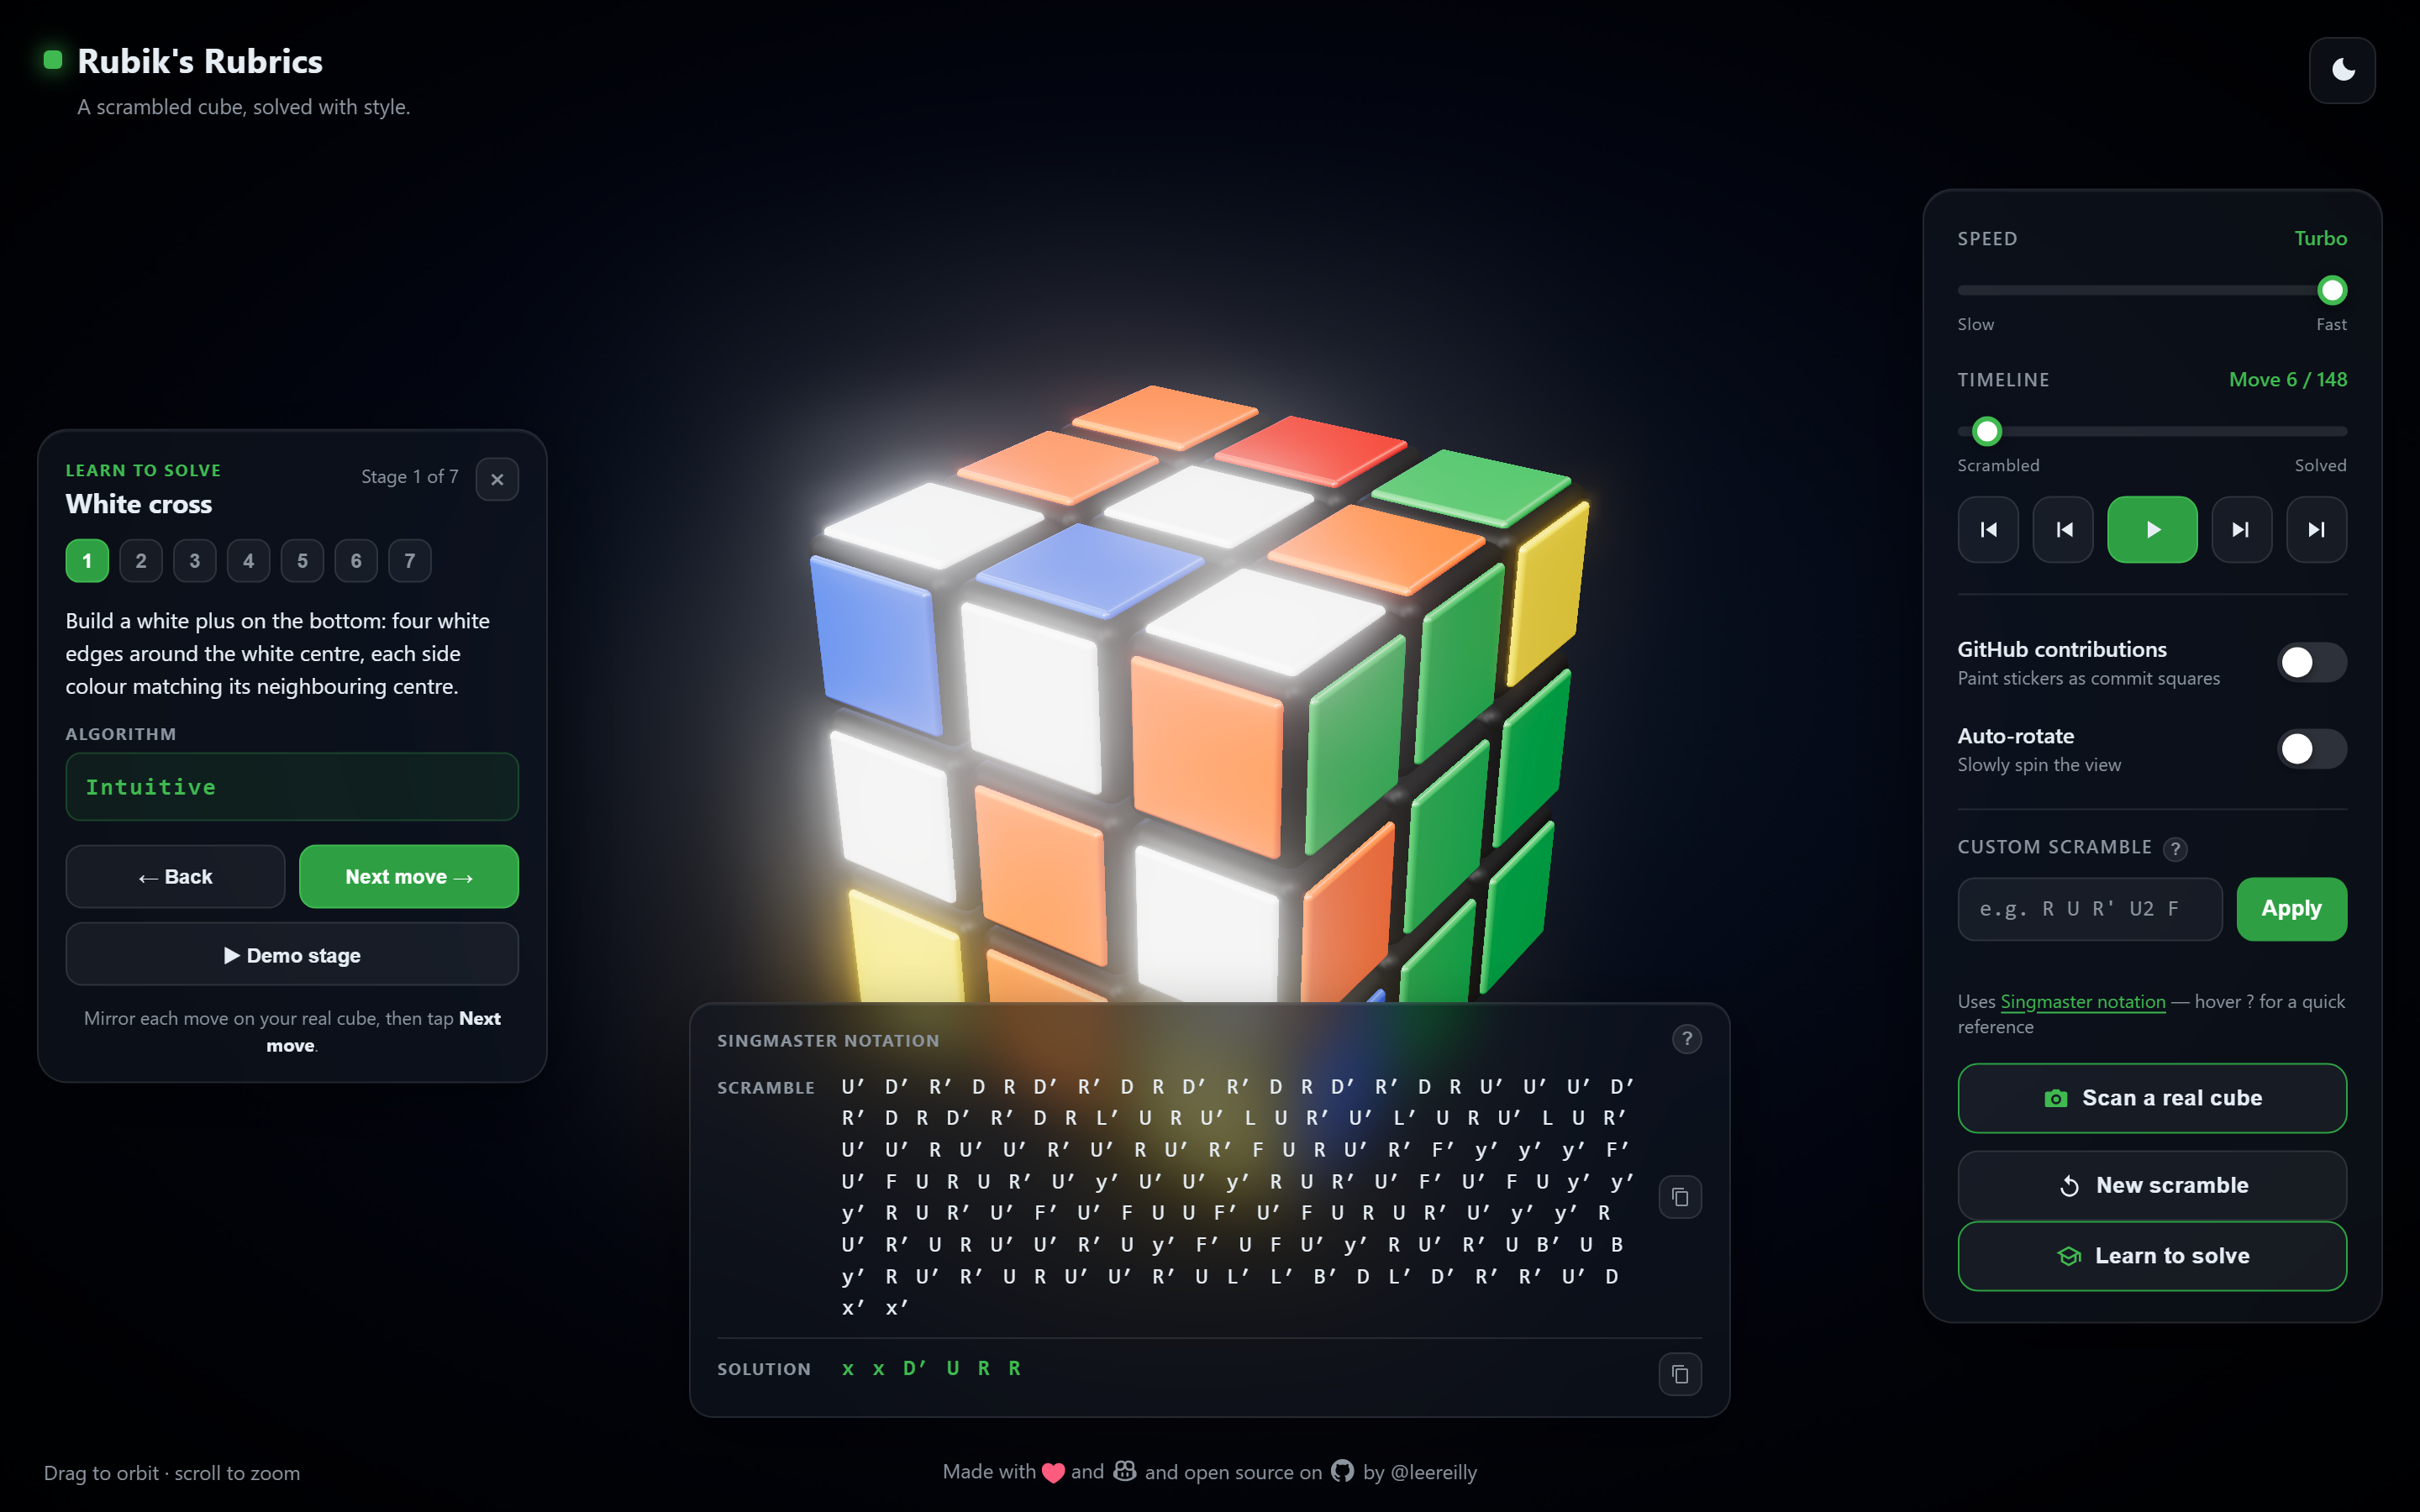
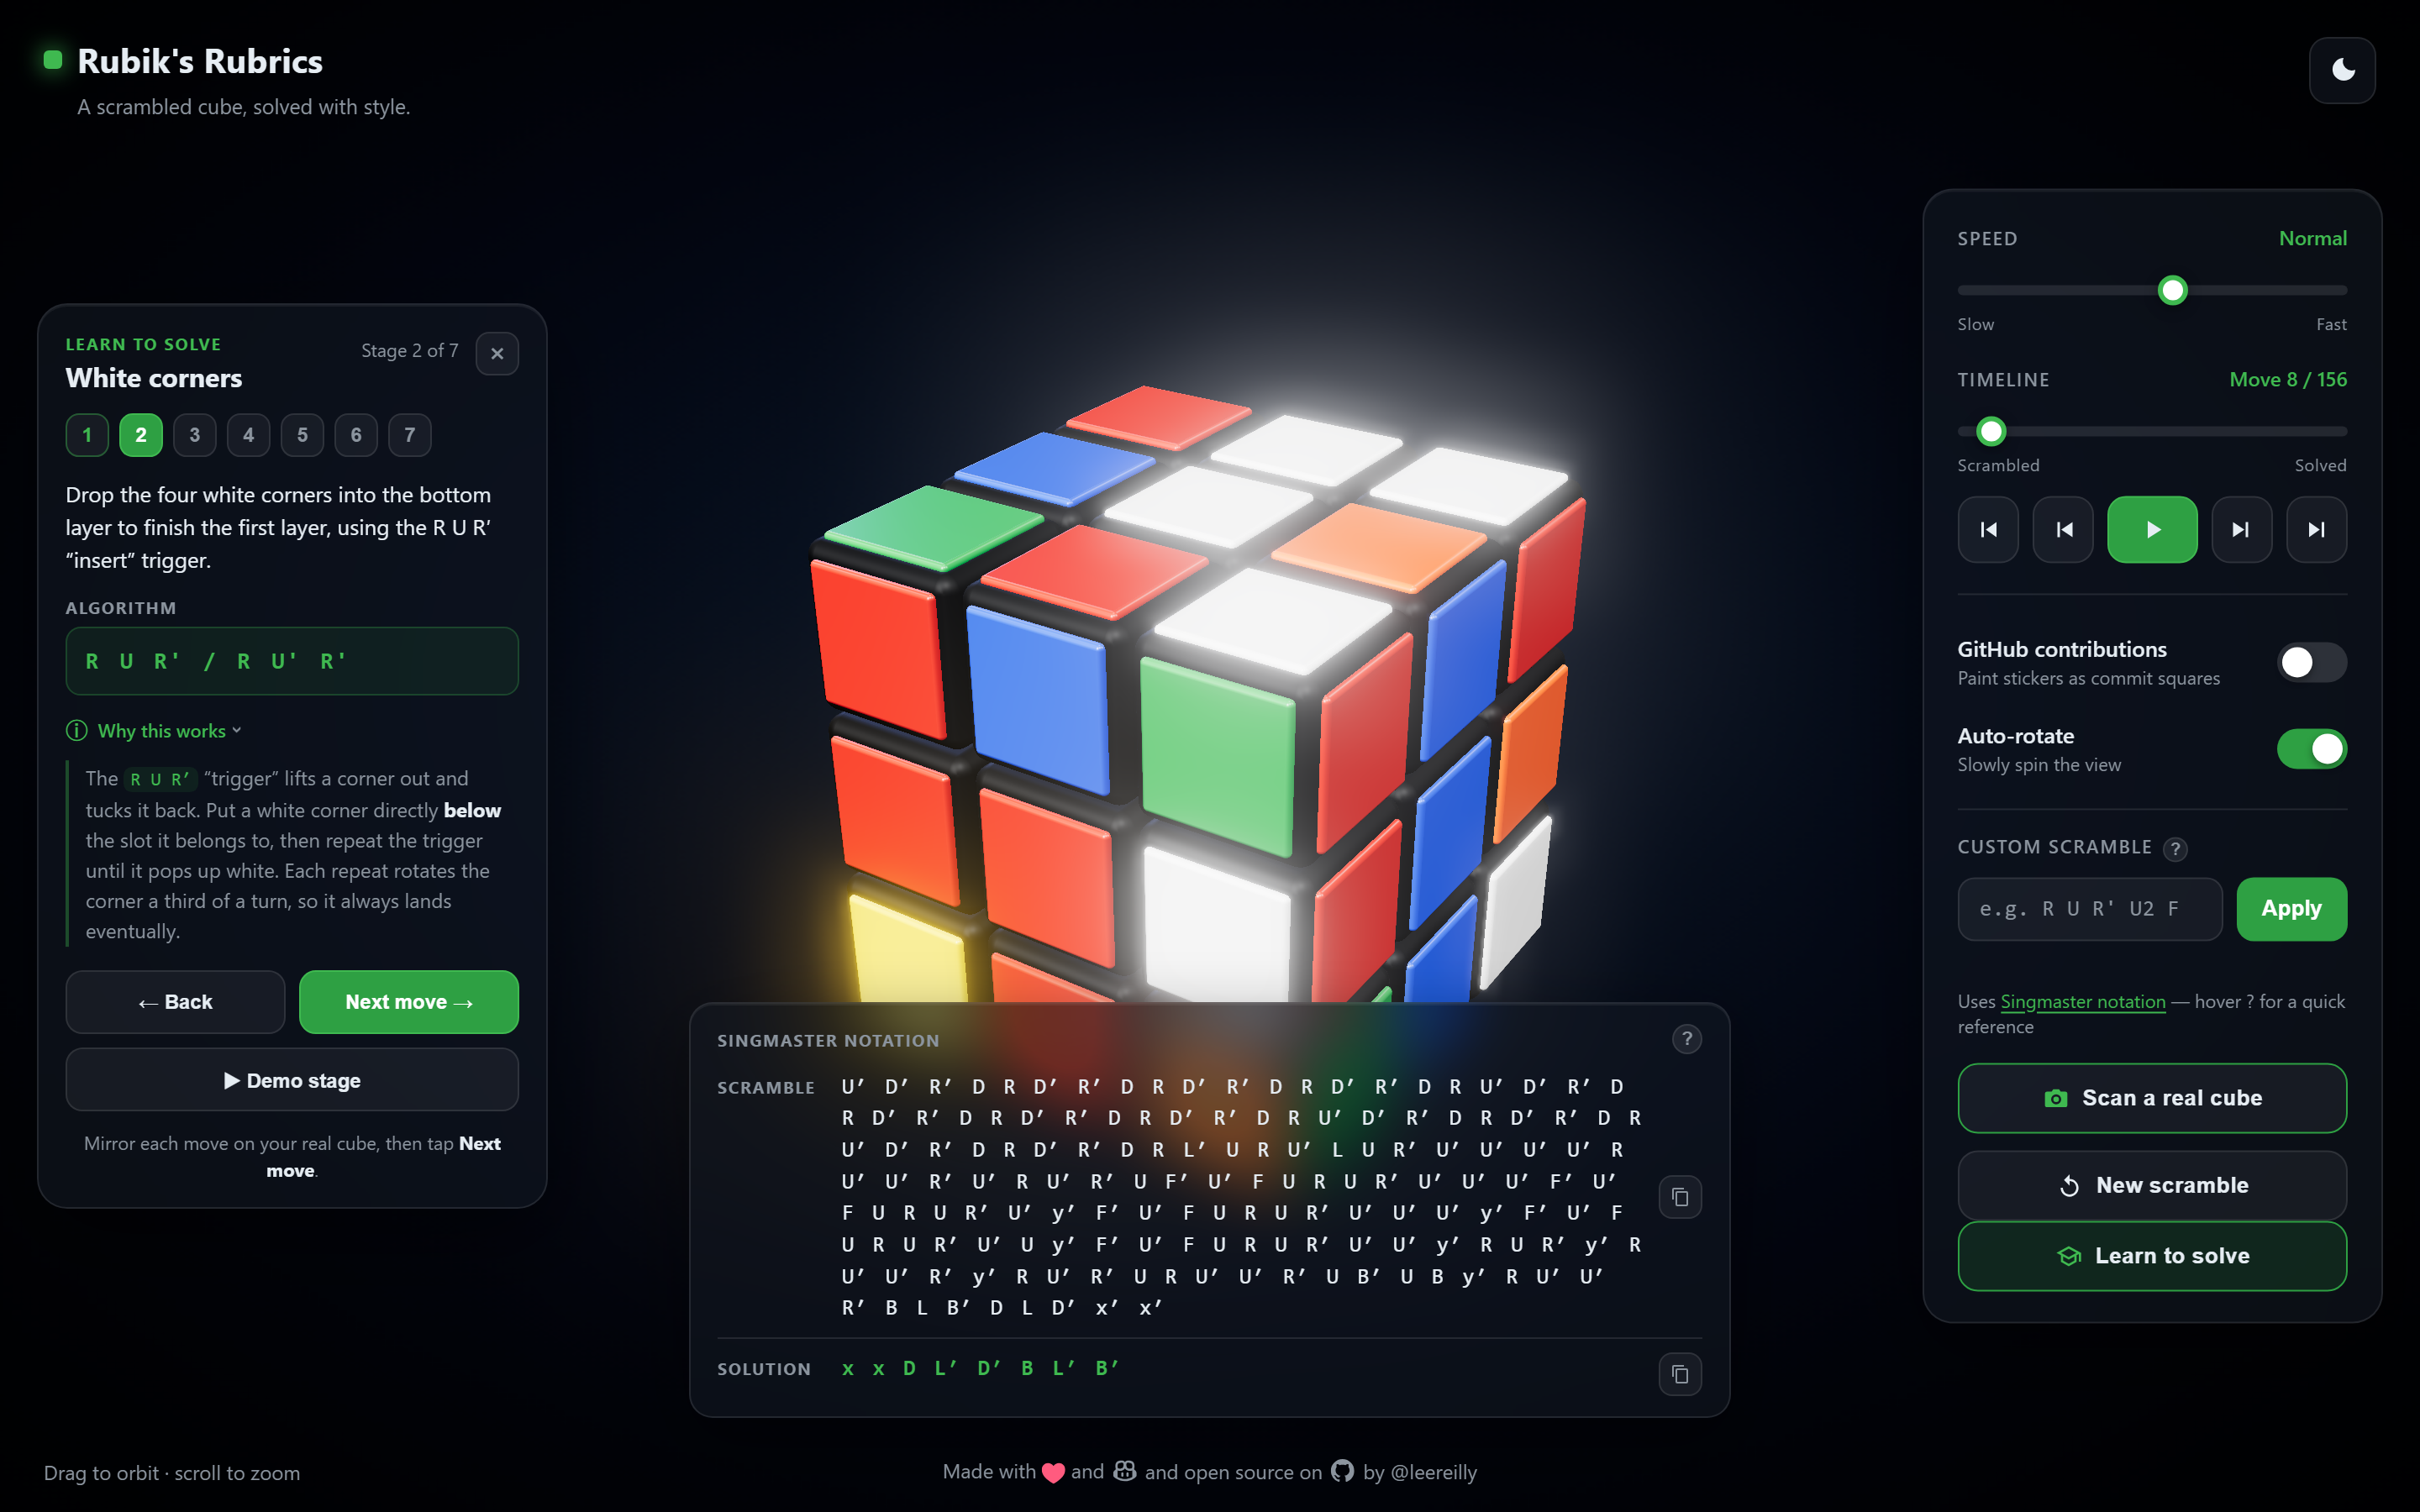
Add expandable 'Why this works' algorithm guide to the coach (#2)
Each Learn to Solve stage now offers a collapsible beginner explanation of
its algorithm (what it does and why), including the 'magic move' commutator
R' D' R D. The tip preserves its open/closed state while stepping within a
stage. Refreshes the README coach screenshot to showcase it.

diff --git a/index.html b/index.html
@@ -549,6 +549,30 @@
     background: rgba(46,160,67,.1); border: 1px solid rgba(63,185,80,.25);
     border-radius: 9px; padding: 9px 11px; word-spacing: 3px; line-height: 1.5;
   }
+  /* Expandable beginner guide for the named algorithm (collapsed by default). */
+  .coach-why { margin-top: 8px; }
+  .coach-why > summary {
+    list-style: none; cursor: pointer; user-select: none;
+    display: inline-flex; align-items: center; gap: 6px;
+    font-size: 11px; font-weight: 600; color: var(--accent-bright); padding: 2px 0;
+  }
+  .coach-why > summary::-webkit-details-marker { display: none; }
+  .coach-why > summary::before { content: "\24D8"; font-size: 13px; font-weight: 700; }
+  .coach-why > summary::after {
+    content: "\203A"; font-size: 14px; color: var(--text-dim);
+    transition: transform .15s ease;
+  }
+  .coach-why[open] > summary::after { transform: rotate(90deg); }
+  .coach-why-body {
+    margin-top: 7px; font-size: 12px; line-height: 1.5; color: var(--text-dim);
+    border-left: 2px solid rgba(63,185,80,.35); padding: 1px 0 1px 10px;
+  }
+  .coach-why-body b { color: var(--text); }
+  .coach-why-body code {
+    font-family: "SF Mono", ui-monospace, Menlo, Consolas, monospace;
+    font-size: 11px; color: var(--accent-bright); background: rgba(46,160,67,.12);
+    border-radius: 5px; padding: 1px 4px;
+  }
 
   .coach-controls { display: flex; gap: 8px; margin-bottom: 11px; flex-wrap: wrap; }
   .coach-btn {
@@ -3308,19 +3332,26 @@
     function solve(facelets) {
       const ref = { s: facelets, out: [], stageMoves: [] };
       const stages = [];
-      const run = (key, name, blurb, algName, fn) => {
+      const run = (key, name, blurb, algName, fn, tip) => {
         ref.stageMoves = [];
         fn(ref);
-        stages.push({ key, name, blurb, algName, tokens: ref.stageMoves.slice() });
+        stages.push({ key, name, blurb, algName, tip: tip || '', tokens: ref.stageMoves.slice() });
       };
       run('orient', 'Get ready', 'Hold the cube so the WHITE centre is on the bottom and the YELLOW centre is on top. We turn it over for you on screen, so do the same with your cube.', 'x2', (r) => rec(r, 'x2'));
-      run('cross', 'White cross', 'Build a white plus on the bottom: four white edges around the white centre, each side colour matching its neighbouring centre.', 'Intuitive', whiteCross);
-      run('corners', 'White corners', 'Drop the four white corners into the bottom layer to finish the first layer, using the R U R\u2032 \u201Cinsert\u201D trigger.', "R U R'  /  R U' R'", firstLayerCorners);
-      run('middle', 'Middle layer', 'Insert the four non-yellow edges into the middle layer with the right- and left-hand edge inserts.', "U R U' R' U' F' U F", middleLayer);
-      run('ycross', 'Yellow cross', 'Make a yellow plus on top. Repeat F R U R\u2032 U\u2032 F\u2032 from a dot, an L-shape, or a line until you get the cross.', "F R U R' U' F'", yellowCross);
-      run('yedges', 'Place yellow edges', 'Cycle the top edges until each side colour matches its centre.', "R U R' U R U2 R'", placeLLEdges);
-      run('ycorners', 'Place yellow corners', 'Send each yellow corner to its correct location (the twist comes next).', "U R U' L' U R' U' L", positionLLCorners);
-      run('twist', 'Twist yellow corners', 'Orient each corner yellow-up with R\u2032 D\u2032 R D, turning the top (U) between corners. The cube finishes solved.', "R' D' R D", orientLLCorners);
+      run('cross', 'White cross', 'Build a white plus on the bottom: four white edges around the white centre, each side colour matching its neighbouring centre.', 'Intuitive', whiteCross,
+        'No fixed algorithm here \u2014 it\u2019s done by eye. Find a white edge, spin the top (U) until it sits above the centre its <b>other</b> colour matches, then turn that face twice (e.g. <code>F2</code>) to drop it into the cross. A matched edge has white on the bottom <b>and</b> its side colour lined up with the centre.');
+      run('corners', 'White corners', 'Drop the four white corners into the bottom layer to finish the first layer, using the R U R\u2032 \u201Cinsert\u201D trigger.', "R U R'  /  R U' R'", firstLayerCorners,
+        'The <code>R U R\u2032</code> \u201Ctrigger\u201D lifts a corner out and tucks it back. Put a white corner directly <b>below</b> the slot it belongs to, then repeat the trigger until it pops up white. Each repeat rotates the corner a third of a turn, so it always lands eventually.');
+      run('middle', 'Middle layer', 'Insert the four non-yellow edges into the middle layer with the right- and left-hand edge inserts.', "U R U' R' U' F' U F", middleLayer,
+        'Take a top edge with <b>no yellow</b>, line its front colour up with that centre, then send it away from the side it belongs to and bring it back. Use <code>U R U\u2032 R\u2032 U\u2032 F\u2032 U F</code> to drop it right, or its mirror (swap R\u2194L, F\u2194B) to drop it left.');
+      run('ycross', 'Yellow cross', 'Make a yellow plus on top. Repeat F R U R\u2032 U\u2032 F\u2032 from a dot, an L-shape, or a line until you get the cross.', "F R U R' U' F'", yellowCross,
+        'This only moves the top <b>edges</b> (ignore corners for now). You\u2019ll see a dot \u2192 an L \u2192 a line \u2192 the full cross. Hold an <b>L</b> in the top-left, or a <b>line</b> left-to-right, then run <code>F R U R\u2032 U\u2032 F\u2032</code> and repeat until the plus appears.');
+      run('yedges', 'Place yellow edges', 'Cycle the top edges until each side colour matches its centre.', "R U R' U R U2 R'", placeLLEdges,
+        'Cross is made, but the side colours may be scrambled. This cycles <b>three</b> top edges while leaving one alone. Keep an already-matched edge at the <b>back</b> and repeat until every side colour meets its centre (a \u201Cdouble swap\u201D may need two passes).');
+      run('ycorners', 'Place yellow corners', 'Send each yellow corner to its correct location (the twist comes next).', "U R U' L' U R' U' L", positionLLCorners,
+        'This moves corners to the right <b>spot</b> \u2014 they may still be twisted the wrong way, that\u2019s fixed next. Look for one corner already in its correct location (its 3 colours match the 3 surrounding centres), hold it at front-right, then repeat <code>U R U\u2032 L\u2032 U R\u2032 U\u2032 L</code>.');
+      run('twist', 'Twist yellow corners', 'Orient each corner yellow-up with R\u2032 D\u2032 R D, turning the top (U) between corners. The cube finishes solved.', "R' D' R D", orientLLCorners,
+        'The famous \u201Cmagic move\u201D \u2014 a <b>commutator</b> that twists just one corner. Keep one unsolved corner at <b>front-top-right</b> and repeat <code>R\u2032 D\u2032 R D</code> (2 or 4 times) until its yellow faces up. It looks like you\u2019re wrecking the cube \u2014 you\u2019re not; finishing the corner restores everything. Then turn <b>only the top</b> (U) to bring the next corner to front-top-right and repeat.');
       if (!isSolved(ref.s)) throw new Error('NOT SOLVED at end');
       return { moves: ref.out.join(' '), stages, count: ref.out.length };
     }
@@ -3335,7 +3366,7 @@
   // beginner solution for the current cube, drives it through setScramble so the
   // 3D cube animates each move, and overlays a stage-by-stage teaching panel that
   // maps the playhead (currentIndex) to the current LBL stage + algorithm.
-  const coach = { active: false, stages: [], total: 0 };
+  const coach = { active: false, stages: [], total: 0, _algKey: null };
   const coachEl = {
     root: document.getElementById('coach'),
     title: document.getElementById('coachStage'),
@@ -3358,7 +3389,7 @@
       const str = (st.tokens || []).join(' ').trim();
       const start = all.length;
       if (str) { const parsed = parseScramble(str); all = all.concat(parsed.moves); }
-      bounds.push({ key: st.key, name: st.name, blurb: st.blurb, algName: st.algName, start, end: all.length });
+      bounds.push({ key: st.key, name: st.name, blurb: st.blurb, algName: st.algName, tip: st.tip, start, end: all.length });
     }
     return { all, bounds };
   }
@@ -3377,6 +3408,7 @@
     coach.stages = bounds;
     coach.total = all.length;
     coach.active = true;
+    coach._algKey = null;
     coachEl.root.hidden = false;
     document.body.classList.add('coaching');
     if (mqMobile.matches) applySheetState('expanded');
@@ -3416,7 +3448,7 @@
       coachEl.title.textContent = 'Solved! \uD83C\uDF89';
       coachEl.counter.textContent = `${visible.length} of ${visible.length} stages`;
       coachEl.blurb.textContent = 'Every face is one solid colour. You just solved the cube with the beginner Layer-by-Layer method. Try another scramble or scan to practise.';
-      coachEl.alg.innerHTML = '';
+      if (coach._algKey !== '__solved') { coach._algKey = '__solved'; coachEl.alg.innerHTML = ''; }
       coachEl.next.disabled = true;
       coachEl.auto.disabled = true;
     } else {
@@ -3427,9 +3459,18 @@
       // as setup rather than the confusing "Stage 0 of 7".
       coachEl.counter.textContent = vpos < 0 ? 'Setup' : `Stage ${vpos + 1} of ${visible.length}`;
       coachEl.blurb.textContent = st.blurb;
-      coachEl.alg.innerHTML = st.algName
-        ? `<span class="coach-alg-label">Algorithm</span><span class="coach-alg-moves">${escapeHtml(st.algName)}</span>`
-        : '';
+      // Rebuild the algorithm + "Why this works" guide only when the stage changes, so an open
+      // tip stays open while the learner steps move-by-move through the same stage.
+      if (coach._algKey !== st.key) {
+        coach._algKey = st.key;
+        if (st.algName) {
+          let html = `<span class="coach-alg-label">Algorithm</span><span class="coach-alg-moves">${escapeHtml(st.algName)}</span>`;
+          if (st.tip) html += `<details class="coach-why"><summary>Why this works</summary><div class="coach-why-body">${st.tip}</div></details>`;
+          coachEl.alg.innerHTML = html;
+        } else {
+          coachEl.alg.innerHTML = '';
+        }
+      }
       coachEl.next.disabled = currentIndex >= coach.total || animating;
       coachEl.auto.disabled = currentIndex >= st.end || animating;
     }